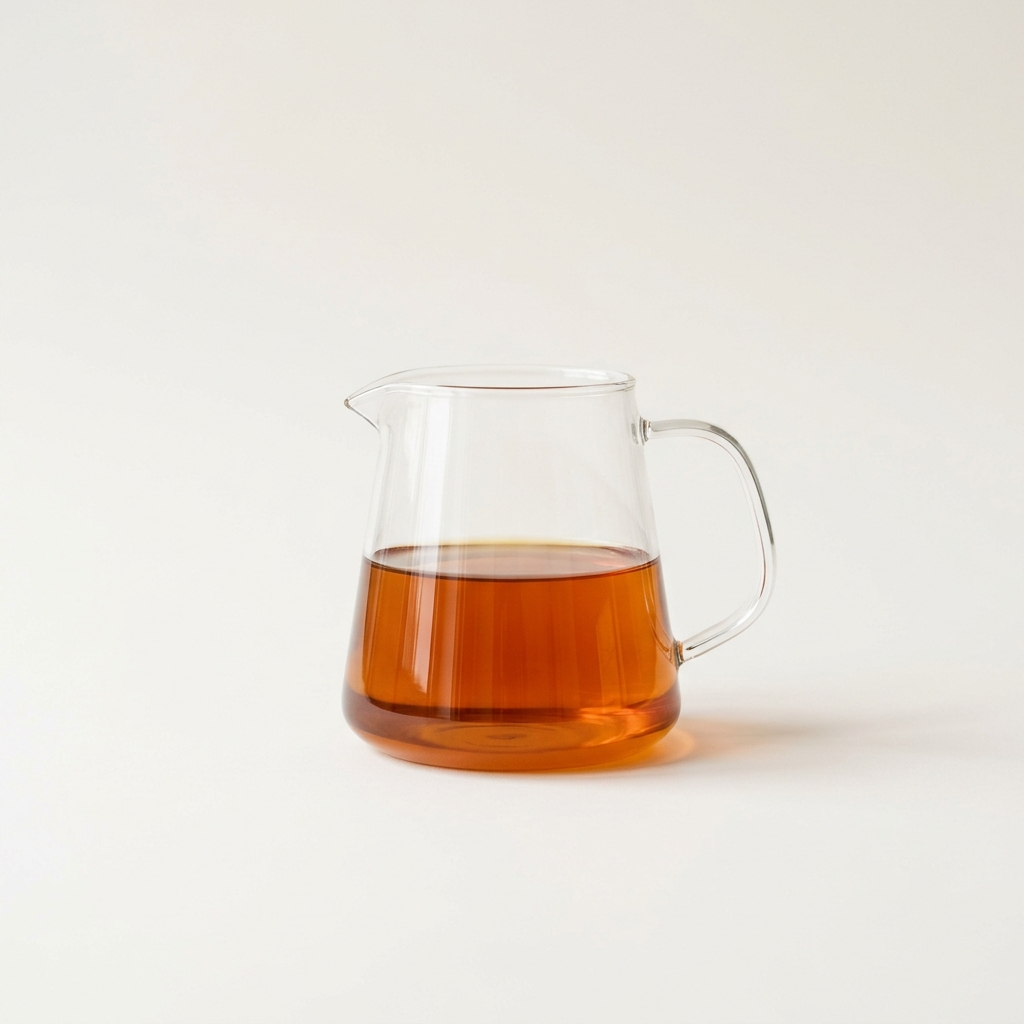
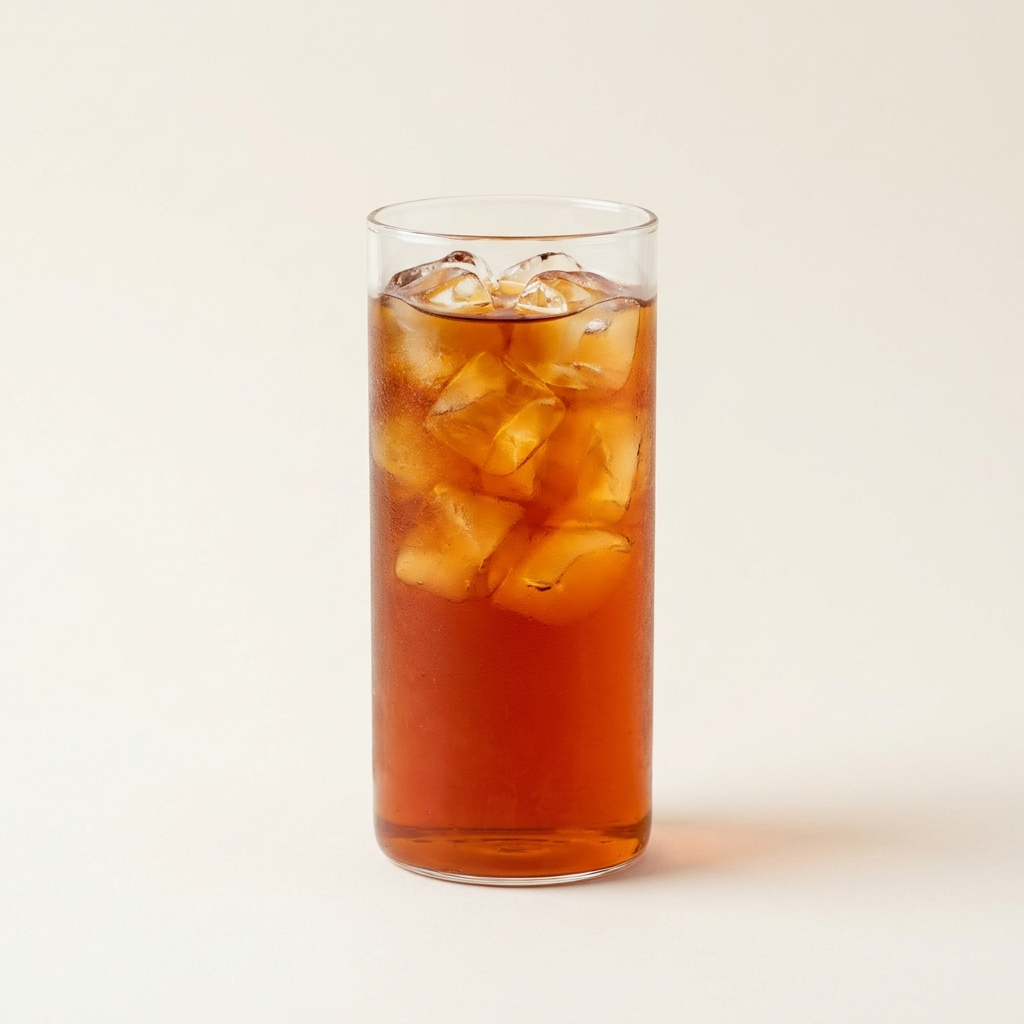
feat: rename brand to Lizui Coffee, replace V60 with Black Tea, and add hot/ice photos for tea, chocolate, and Americano

Changed region(s): [[0.3125, 0.1875, 1.0, 0.875], [0.7188, 0.4375, 0.75, 0.5], [0.3438, 0.1875, 0.375, 0.2188]]

diff --git a/src/lib/db.ts b/src/lib/db.ts
@@ -104,7 +104,7 @@ export function getDb(): DatabaseSync {
   `);
 
   seedIfEmpty(db);
-  // Normalize legacy V60 Hot/Iced variants to Small/Large now that Coffee has its own temperature selector.
+  // Normalize legacy V60 Hot/Iced variants to Small/Large now that drinks have their own temperature selector.
   db.prepare(
     `UPDATE menu_items SET variants_json = ? WHERE id = 'menu-v60' AND variants_json LIKE '%"Hot"%'`,
   ).run(
@@ -113,6 +113,16 @@ export function getDb(): DatabaseSync {
       { label: "Large", priceDelta: 6000 },
     ]),
   );
+  db.prepare(
+    `UPDATE menu_items
+     SET name = 'Black Tea',
+         category = 'NON_COFFEE',
+         description = 'Teh hitam pilihan diseduh segar, nikmat disajikan hangat atau dingin.'
+     WHERE id = 'menu-v60' AND name = 'V60 Manual Brew'`,
+  ).run();
+  db.prepare(
+    `UPDATE order_items SET item_name = 'Black Tea' WHERE menu_item_id = 'menu-v60' AND item_name = 'V60 Manual Brew'`,
+  ).run();
 
   cachedDb = db;
   cachedDbPath = dbPath;
@@ -162,9 +172,9 @@ function seedIfEmpty(db: DatabaseSync): void {
       },
       {
         id: "menu-v60",
-        name: "V60 Manual Brew",
-        category: "COFFEE",
-        description: "Seduhan manual single-origin Gayo dengan karakter bersih dan floral.",
+        name: "Black Tea",
+        category: "NON_COFFEE",
+        description: "Teh hitam pilihan diseduh segar, nikmat disajikan hangat atau dingin.",
         price: 32000,
         visualKey: "v60",
         variants: [
@@ -388,7 +398,7 @@ function seedHistoricalOrders(db: DatabaseSync): void {
       status: "COMPLETED",
       items: [
         { menuId: "menu-cappucino", name: "Cappucino", variant: "Small", qty: 2, unitPrice: 28000 },
-        { menuId: "menu-v60", name: "V60 Manual Brew", variant: "Hot", qty: 1, unitPrice: 32000 },
+        { menuId: "menu-v60", name: "Black Tea", variant: "Hot", qty: 1, unitPrice: 32000 },
       ],
     },
     {
@@ -511,7 +521,7 @@ export function createMenuItem(input: {
     id,
     name,
     input.category,
-    input.description.trim() || "Menu racikan terbaru Purr'Coffee.",
+    input.description.trim() || "Menu racikan terbaru Lizui Coffee.",
     Math.round(input.price),
     visualKey,
     JSON.stringify(variants),

diff --git a/src/components/MenuBrowser.tsx b/src/components/MenuBrowser.tsx
@@ -6,7 +6,7 @@ import {
   COFFEE_TEMPERATURES,
   computeConfiguredUnitPrice,
   getSugarExtraPrice,
-  isCoffeeCategory,
+  hasTemperatureOption,
   isDrinkCategory,
   type SharedCartSelection,
   SUGAR_LEVELS,
@@ -136,9 +136,9 @@ export function MenuBrowser({
         <div className="grid grid-cols-1 gap-4 md:grid-cols-2">
           {filtered.map((item) => {
             const isDrink = isDrinkCategory(item.category);
-            const isCoffee = isCoffeeCategory(item.category);
+            const hasTemp = hasTemperatureOption(item);
             const currentVariantLabel = selectedVariant[item.id] ?? item.variants[0]?.label ?? "Regular";
-            const currentTemp: DrinkTemperature | undefined = isCoffee
+            const currentTemp: DrinkTemperature | undefined = hasTemp
               ? selectedTemp[item.id] ?? "Ice"
               : undefined;
             const currentSugar: SugarLevel | undefined = isDrink
@@ -211,7 +211,7 @@ export function MenuBrowser({
                         })}
                       </div>
 
-                      {isCoffee ? (
+                      {hasTemp ? (
                         <div className="flex flex-wrap items-center gap-1.5">
                           <span className="mr-0.5 text-[11px] font-semibold text-[#5E5650]">Sajian:</span>
                           {COFFEE_TEMPERATURES.map((temp) => {

diff --git a/src/lib/__tests__/cafe.test.ts b/src/lib/__tests__/cafe.test.ts
@@ -104,7 +104,7 @@ describe("Cafe POS & Ordering Domain", () => {
     expect(summary.topMenus[0]?.quantitySold).toBeGreaterThanOrEqual(3);
 
     const csv = buildOrdersCsv(summary);
-    expect(csv).toContain("LAPORAN PENJUALAN PURR'COFFEE");
+    expect(csv).toContain("LAPORAN PENJUALAN LIZUI COFFEE");
     expect(csv).toContain("'=SUM(1,2)");
     expect(csv).toContain("'=FormulaDrink");
   });
@@ -173,6 +173,11 @@ describe("Cafe POS & Ordering Domain", () => {
     expect(resolveMenuImageSrc("iced-latte", "Panas")).toBe("/images/menu/iced-latte-hot.jpg");
     expect(resolveMenuImageSrc("coffee-latte", "Panas")).toBe("/images/menu/coffee-latte-hot.jpg");
     expect(resolveMenuImageSrc("americano", "Ice")).toBe("/images/menu/americano.jpg");
+    expect(resolveMenuImageSrc("americano", "Panas")).toBe("/images/menu/americano-hot.jpg");
+    expect(resolveMenuImageSrc("v60", "Ice")).toBe("/images/menu/v60.jpg");
+    expect(resolveMenuImageSrc("v60", "Panas")).toBe("/images/menu/v60-hot.jpg");
+    expect(resolveMenuImageSrc("chocolate", "Ice")).toBe("/images/menu/chocolate.jpg");
+    expect(resolveMenuImageSrc("chocolate", "Panas")).toBe("/images/menu/chocolate-hot.jpg");
     expect(resolveMenuImageSrc("/api/menu/image/123e4567-e89b-12d3-a456-426614174000.png")).toBe(
       "/api/menu/image/123e4567-e89b-12d3-a456-426614174000.png",
     );

diff --git a/src/components/AppShell.tsx b/src/components/AppShell.tsx
@@ -38,7 +38,7 @@ export function AppShell({
       <header className="no-print sticky top-0 z-30 border-b border-[#DDD5CD] bg-[#FFFFFF] lg:hidden">
         <div className="flex items-center justify-between px-4 py-3">
           <Link href="/" className="text-lg font-bold tracking-tight text-[#1F1B18]">
-            Purr&apos;<span className="text-[#B8551E]">Coffee</span>
+            Lizui <span className="text-[#B8551E]">Coffee</span>
           </Link>
           <div className="flex items-center gap-2">
             {staffRoleLabel && onLogoutStaff ? (
@@ -81,7 +81,7 @@ export function AppShell({
         <aside className="no-print hidden w-60 shrink-0 flex-col justify-between border-r border-[#DDD5CD] bg-[#FFFFFF] px-5 py-7 lg:sticky lg:top-0 lg:flex lg:h-screen">
           <div>
             <Link href="/" className="mb-8 block text-2xl font-bold tracking-tight text-[#1F1B18]">
-              Purr&apos;<span className="text-[#B8551E]">Coffee</span>
+              Lizui <span className="text-[#B8551E]">Coffee</span>
             </Link>
 
             <nav aria-label="Navigasi peran" className="space-y-2">

diff --git a/src/app/kasir/page.tsx b/src/app/kasir/page.tsx
@@ -595,7 +595,7 @@ export default function CashierPage() {
         >
           <div className="mx-auto w-full max-w-sm rounded-2xl bg-[#FFFFFF] p-6 print:max-w-[320px] print:rounded-none print:border print:border-[#DDD5CD] print:p-5">
             <div className="text-center">
-              <h2 className="text-lg font-bold text-[#1F1B18]">Purr&apos;Coffee</h2>
+              <h2 className="text-lg font-bold text-[#1F1B18]">Lizui Coffee</h2>
               <p className="text-xs text-[#5E5650]">Struk Transaksi • {receiptOrder.orderNumber}</p>
               <p className="mt-1 text-xs text-[#5E5650]">{formatDateTimeShort(receiptOrder.createdAt)}</p>
             </div>
@@ -653,7 +653,7 @@ export default function CashierPage() {
             </div>
 
             <div className="mt-4 border-t border-dashed border-[#DDD5CD] pt-3 text-center text-xs text-[#5E5650]">
-              Terima kasih telah berkunjung ke Purr&apos;Coffee
+              Terima kasih telah berkunjung ke Lizui Coffee
             </div>
 
             <div className="no-print mt-5 flex gap-2">

diff --git a/src/lib/drink-options.ts b/src/lib/drink-options.ts
@@ -16,6 +16,15 @@ export function isTeaMenu(name: string): boolean {
   return /\b(teh|tea)\b/i.test(name);
 }
 
+export function hasTemperatureOption(
+  menu: Pick<MenuItem, "category" | "name"> & { visualKey?: string },
+): boolean {
+  if (isCoffeeCategory(menu.category)) return true;
+  if (isTeaMenu(menu.name)) return true;
+  if (/\b(chocolate|cokelat)\b/i.test(menu.name)) return true;
+  return menu.visualKey === "v60" || menu.visualKey === "chocolate";
+}
+
 export function getSugarExtraPrice(menu: Pick<MenuItem, "category" | "name">, sugarLevel: SugarLevel): number {
   if (!isDrinkCategory(menu.category)) return 0;
   if (sugarLevel !== "Banyak") return 0;
@@ -65,7 +74,9 @@ export function computeConfiguredUnitPrice(
     ? opts.temperature === "Panas"
       ? "Panas"
       : "Ice"
-    : undefined;
+    : hasTemperatureOption(menu) && (opts.temperature === "Panas" || opts.temperature === "Ice")
+      ? opts.temperature
+      : undefined;
 
   const parts = [baseLabel];
   if (temperature) parts.push(temperature);

diff --git a/src/lib/menu-images.ts b/src/lib/menu-images.ts
@@ -9,9 +9,9 @@ export const MENU_IMAGE_PRESETS: MenuImagePreset[] = [
   { key: "iced-latte", label: "Cappucino" },
   { key: "coffee-latte", label: "Coffee Latte" },
   { key: "americano", label: "Americano" },
-  { key: "v60", label: "V60 Brew" },
+  { key: "v60", label: "Black Tea" },
   { key: "matcha", label: "Matcha" },
-  { key: "chocolate", label: "Cokelat" },
+  { key: "chocolate", label: "Dark Chocolate" },
   { key: "rice-bowl", label: "Rice Bowl" },
   { key: "pasta", label: "Pasta" },
   { key: "fries", label: "Snack" },
@@ -20,7 +20,7 @@ export const MENU_IMAGE_PRESETS: MenuImagePreset[] = [
 ];
 
 const PRESET_SET = new Set(MENU_IMAGE_PRESETS.map((p) => p.key));
-const HOT_COFFEE_KEYS = new Set(["iced-latte", "coffee-latte"]);
+const HOT_COFFEE_KEYS = new Set(["iced-latte", "coffee-latte", "americano", "v60", "chocolate"]);
 const UPLOADED_PATH_RE = /^\/api\/menu\/image\/[a-f0-9-]+\.(jpg|png|webp)$/;
 
 export function isPresetMenuKey(value: string): boolean {

diff --git a/src/lib/analytics.ts b/src/lib/analytics.ts
@@ -193,7 +193,7 @@ function csvCell(value: string | number | null | undefined): string {
 
 export function buildOrdersCsv(summary: AnalyticsSummary): string {
   const lines: string[] = [];
-  lines.push(["LAPORAN PENJUALAN PURR'COFFEE", `Periode: ${summary.period}`].map(csvCell).join(","));
+  lines.push(["LAPORAN PENJUALAN LIZUI COFFEE", `Periode: ${summary.period}`].map(csvCell).join(","));
   lines.push(["Total Omzet (IDR)", summary.totalRevenue, "Total Pesanan", summary.totalOrders].map(csvCell).join(","));
   lines.push("");
   lines.push(

diff --git a/src/app/api/analytics/route.ts b/src/app/api/analytics/route.ts
@@ -23,7 +23,7 @@ export async function GET(req: Request) {
       status: 200,
       headers: {
         "Content-Type": "text/csv; charset=utf-8",
-        "Content-Disposition": `attachment; filename="laporan-purrcoffee-${period}-${stamp}.csv"`,
+        "Content-Disposition": `attachment; filename="laporan-lizuicoffee-${period}-${stamp}.csv"`,
       },
     });
   }

diff --git a/src/app/layout.tsx b/src/app/layout.tsx
@@ -9,7 +9,7 @@ const plusJakarta = Plus_Jakarta_Sans({
 });
 
 export const metadata: Metadata = {
-  title: "Purr'Coffee | Pemesanan Meja, Kasir POS, & Monitoring Kafe",
+  title: "Lizui Coffee | Pemesanan Meja, Kasir POS, & Monitoring Kafe",
   description: "Sistem pemesanan pelanggan meja dan bawa pulang, kasir outlet, serta dashboard monitoring kafe.",
 };
 

diff --git a/README.md b/README.md
@@ -1,4 +1,4 @@
-# Purr'Coffee (`kafe v1`)
+# Lizui Coffee (`kafe v1`)
 
 Sistem pemesanan kafe terintegrasi dalam satu aplikasi **Next.js (App Router, TypeScript, Tailwind CSS)** dengan database lokal **SQLite (`node:sqlite`)**.
 

diff --git a/DESIGN.md b/DESIGN.md
@@ -1,4 +1,4 @@
-# Design Direction — Purr'Coffee (Kafe v1)
+# Design Direction — Lizui Coffee (Kafe v1)
 
 Dial: ENERGY 2 / RHYTHM 2 / MOTION 1
 
